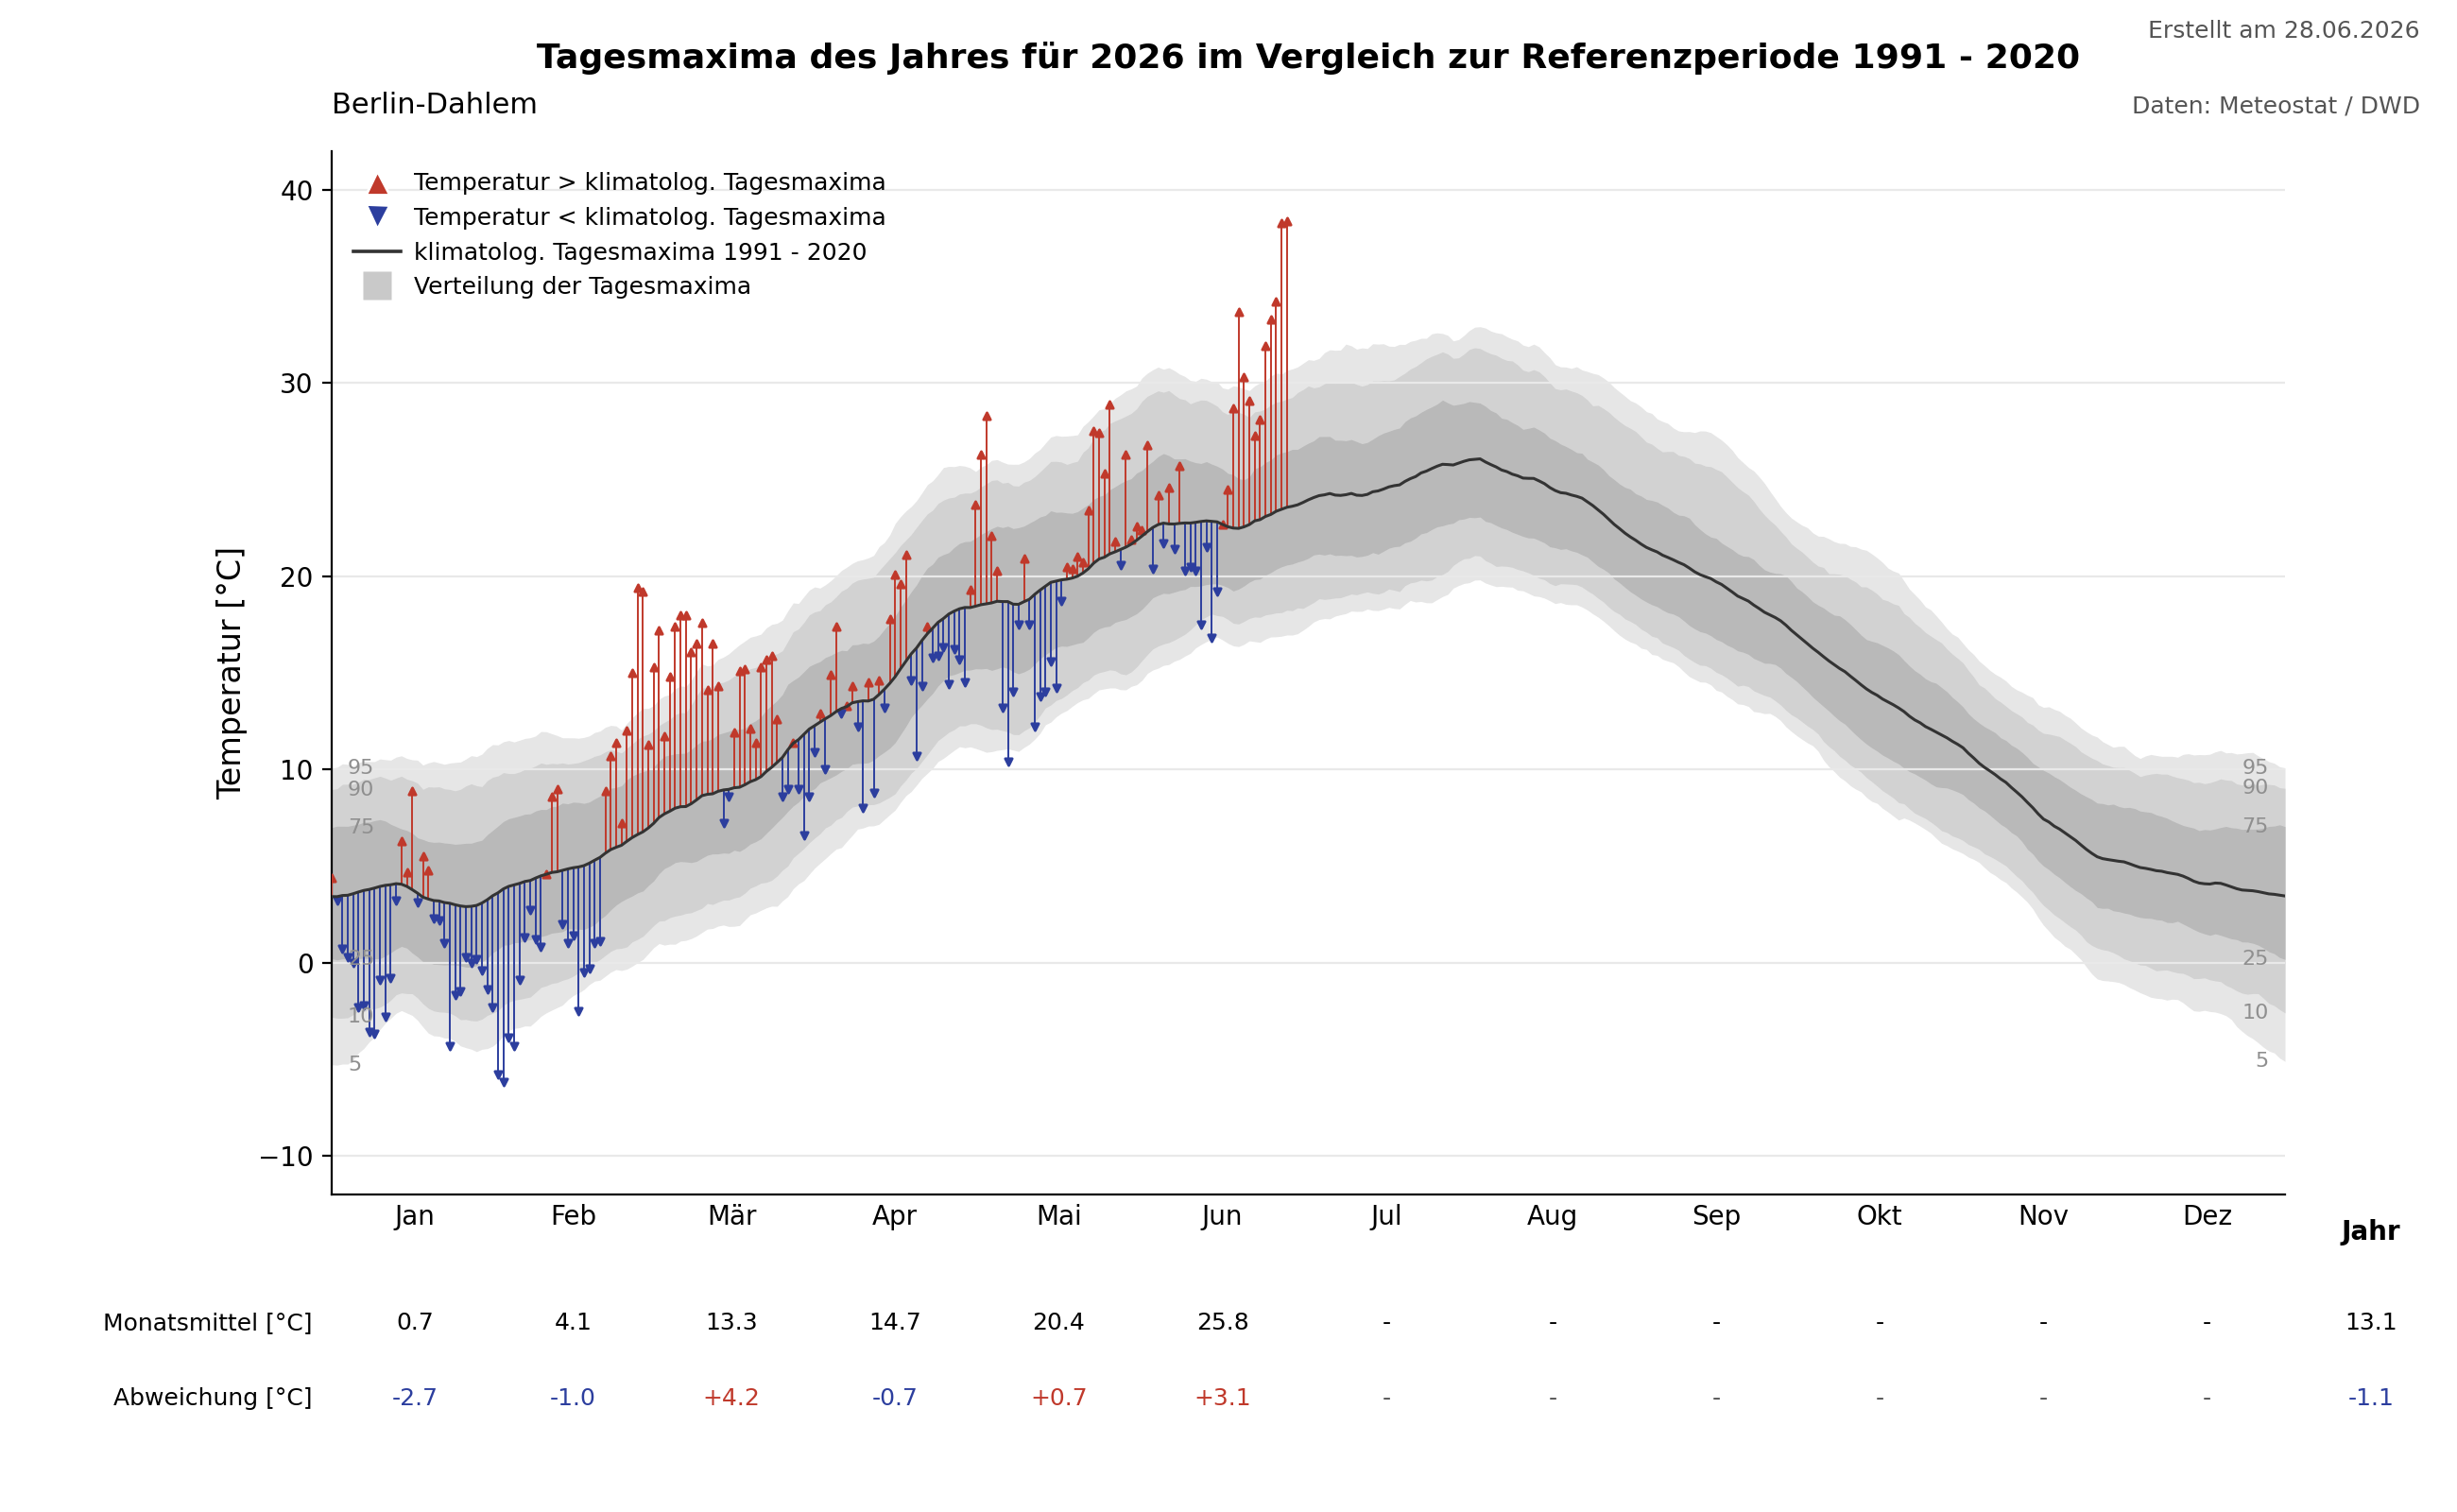
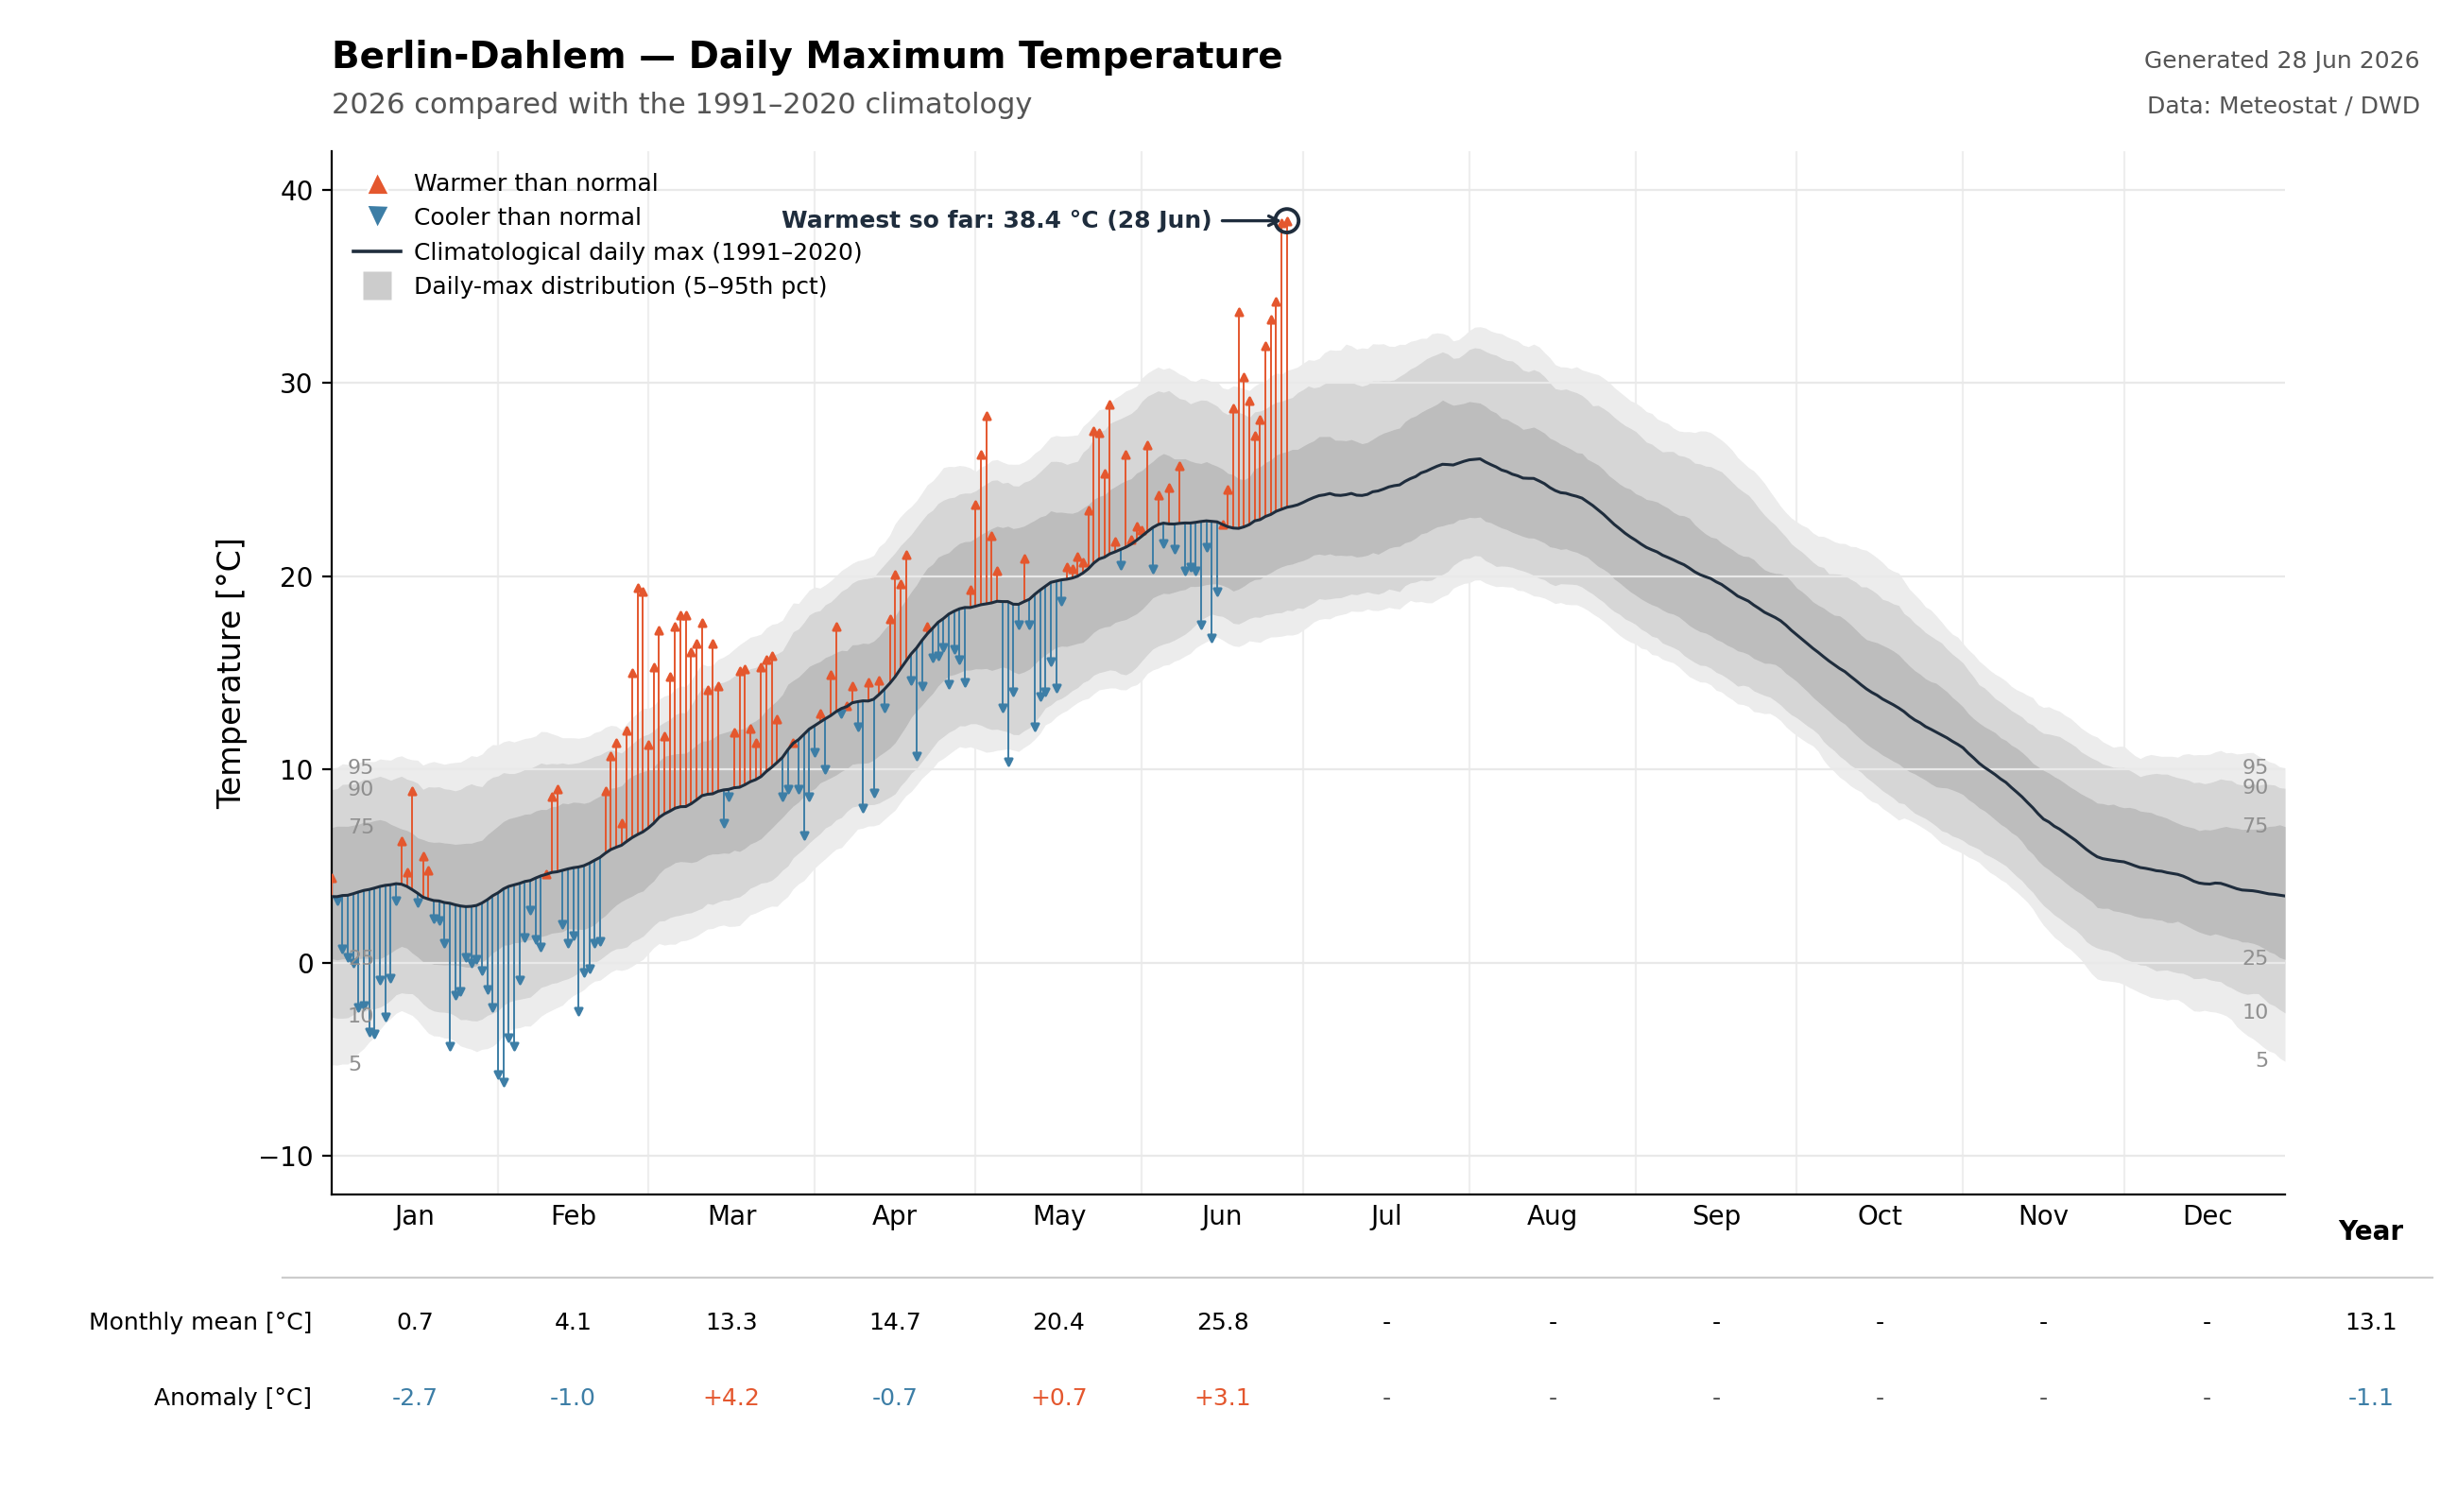
Restyle yearly-cycle chart: English labels, distinct format
Translate all chart text to English and give it its own visual identity rather
than mirroring the original German reference layout:

- English title/subtitle (left-aligned), legend, axis, credits and the
  Monthly mean / Anomaly / Year table; English month abbreviations.
- Warm/cool divergent palette (orange / steel blue) replacing crimson/navy.
- Faint vertical month separators and an underlined table header.
- Annotate the warmest day of the year so far.
- Station label "Potsdam Secular Station"; own credit line (no third-party
  branding). Renders Potsdam and Berlin-Dahlem.

Claude-Session: https://claude.ai/code/session_01Bs2KWw18xhYywxEbmL256L

diff --git a/potsdam_yearly_cycle.py b/potsdam_yearly_cycle.py
@@ -1,17 +1,17 @@
 #!/usr/bin/env python3
 """
-Yearly-cycle climatology chart (FU-Berlin "Klimadiagramm" style).
+Annual temperature-cycle chart (English labels).
 
 For a given station and year, plots every day's maximum temperature as a
 coloured bar against the smoothed climatological daily maximum of a reference
 period (default 1991-2020):
 
-* red bar / up-triangle   -> day warmer than the climatological daily maximum
-* blue bar / down-triangle -> day colder than the climatological daily maximum
+* warm bar / up-triangle   -> day warmer than the climatological daily maximum
+* cool bar / down-triangle -> day cooler than the climatological daily maximum
 
 Behind the bars, nested grey bands show the 5/10/25/75/90/95 percentile
-distribution of the reference period, and a table underneath lists the monthly
-mean daily maximum and its anomaly vs. the reference period.
+distribution of the reference period; a table underneath lists the monthly mean
+daily maximum and its anomaly, and the warmest day so far is annotated.
 
 Targets the Meteostat 2.x functional API. See CLAUDE.md for the API caveat.
 """
@@ -36,7 +36,7 @@ meteostat.config.block_large_requests = False
 STATIONS = {
     "potsdam": {
         "id": "10379",
-        "label": "Potsdam (Säkularstation)",
+        "label": "Potsdam Secular Station",
         "point": Point(52.3833, 13.0667, 81),
     },
     "berlin-dahlem": {
@@ -58,22 +58,23 @@ JAHR_X = 0.965  # figure-x of the annual ('Jahr') table column
 Y_HEADER = 0.185  # figure-y of the month / 'Jahr' header row
 Y_MEAN, Y_ANOM = 0.125, 0.075  # figure-y of the two table value rows
 
-# FU-Berlin-like palette
-RED = "#C0392B"
-BLUE = "#2C3E9E"
-LINE_COLOR = "#333333"
+# Divergent warm/cool palette (its own look, not the classic grey-on-crimson)
+RED = "#E4572E"  # warmer than normal
+BLUE = "#3D7EA6"  # cooler than normal
+LINE_COLOR = "#1F2D3D"  # climatological mean line
+HILITE = "#1F2D3D"  # warmest-day annotation
 BAND_COLORS = {  # (low, high) percentile -> grey level, darkest = innermost
-    (25, 75): "#b9b9b9",
-    (10, 90): "#d2d2d2",
-    (5, 95): "#e6e6e6",
+    (25, 75): "#bdbdbd",
+    (10, 90): "#d6d6d6",
+    (5, 95): "#ececec",
 }
 
 # Non-leap calendar: cumulative first-day-of-month day numbers (1..365)
 _DAYS_IN_MONTH = [31, 28, 31, 30, 31, 30, 31, 31, 30, 31, 30, 31]
 MONTH_STARTS = np.concatenate([[1], 1 + np.cumsum(_DAYS_IN_MONTH)])  # len 13, ends 366
 MONTH_CENTERS = (MONTH_STARTS[:-1] + MONTH_STARTS[1:]) / 2.0
-MONTH_NAMES = ["Jan", "Feb", "Mär", "Apr", "Mai", "Jun",
-               "Jul", "Aug", "Sep", "Okt", "Nov", "Dez"]
+MONTH_NAMES = ["Jan", "Feb", "Mar", "Apr", "May", "Jun",
+               "Jul", "Aug", "Sep", "Oct", "Nov", "Dec"]
 
 
 # ---------------------------------------------------------------------------
@@ -161,10 +162,10 @@ def monthly_table(series: pd.Series, year: int, ref_start: int, ref_end: int) ->
 
     Monthly figures are like-for-like: for an in-progress month the reference is
     restricted to the same day-of-month window, so a partial month is not
-    compared against a full reference month. The annual ('Jahr') anomaly follows
-    the FU-Berlin convention and compares the year-to-date mean against the
-    *full-year* reference climatology -- so it reflects the seasonal sampling of
-    the elapsed part of the year, not a same-window anomaly.
+    compared against a full reference month. The annual ('Year') anomaly instead
+    compares the year-to-date mean against the *full-year* reference climatology,
+    so it reflects the seasonal sampling of the elapsed part of the year rather
+    than a same-window anomaly.
     """
     cur = series[series.index.year == year]
     ref = _ref_slice(series, ref_start, ref_end)
@@ -181,8 +182,8 @@ def monthly_table(series: pd.Series, year: int, ref_start: int, ref_end: int) ->
         means[m] = float(cur_m.mean())
         anomalies[m] = float(cur_m.mean() - ref_m.mean()) if not ref_m.empty else None
 
-    # 'Jahr' column: year-to-date mean vs the full-year reference climatology
-    # (FU-Berlin convention; intentionally not a same-period anomaly).
+    # 'Year' column: year-to-date mean vs the full-year reference climatology
+    # (intentionally not a same-period anomaly).
     if not cur.empty and not ref.empty:
         year_mean = float(cur.mean())
         year_anom = float(cur.mean() - ref.mean())
@@ -254,7 +255,20 @@ def make_plot(key: str, year: int | None = None) -> str:
     # Climatological mean line on top
     ax.plot(grid, clim["mean"], color=LINE_COLOR, linewidth=1.1, zorder=5)
 
-    # Percentile labels just inside both margins (as in the FU-Berlin chart)
+    # Highlight the warmest day of the year so far
+    hot_i = int(np.argmax(cur_val))
+    hot_x, hot_y, hot_d = cur_doy[hot_i], cur_val[hot_i], cur.index[hot_i]
+    ax.scatter([hot_x], [hot_y], marker="o", s=80, facecolors="none",
+               edgecolors=HILITE, linewidths=1.4, zorder=6)
+    ax.annotate(
+        f"Warmest so far: {hot_y:.1f} °C "
+        f"({hot_d.day} {MONTH_NAMES[hot_d.month - 1]})",
+        xy=(hot_x, hot_y), xytext=(hot_x - 14, hot_y),
+        fontsize=9, fontweight="bold", color=HILITE, ha="right", va="center",
+        arrowprops=dict(arrowstyle="->", lw=1.2, color=HILITE),
+    )
+
+    # Percentile labels just inside both margins
     for p in PCT_LEVELS:
         ax.text(4, clim[p][0], str(p), color="#8f8f8f", fontsize=8,
                 ha="left", va="center", zorder=6)
@@ -272,33 +286,37 @@ def make_plot(key: str, year: int | None = None) -> str:
     ax.set_xticklabels(MONTH_NAMES, fontsize=10)
     ax.tick_params(axis="x", length=0)
     ax.set_yticks(np.arange(-10, int(np.floor(y_hi)) + 1, 10))
-    ax.set_ylabel("Temperatur [°C]", fontsize=12)
+    ax.set_ylabel("Temperature [°C]", fontsize=12)
     ax.yaxis.grid(True, color="#e9e9e9", linewidth=0.8, zorder=0)
+    # Faint vertical month separators (a distinct touch)
+    for x0 in MONTH_STARTS[1:-1]:
+        ax.axvline(x0, color="#eeeeee", linewidth=0.8, zorder=0)
     for spine in ("top", "right"):
         ax.spines[spine].set_visible(False)
 
-    # Titles / credits
-    fig.text((PLOT_LEFT + PLOT_RIGHT) / 2, 0.955,
-             f"Tagesmaxima des Jahres für {year} im Vergleich zur "
-             f"Referenzperiode {REF_START} - {REF_END}",
-             ha="center", fontsize=13, fontweight="bold")
-    fig.text(PLOT_LEFT, 0.925, station["label"], ha="left", fontsize=11)
-    fig.text(0.985, 0.975, f"Erstellt am {today.strftime('%d.%m.%Y')}",
-             ha="right", fontsize=9, color="#555555")
-    fig.text(0.985, 0.925,
-             "Daten: Meteostat / DWD", ha="right", fontsize=9, color="#555555")
+    # Titles / credits (left-aligned title + grey subtitle)
+    fig.text(PLOT_LEFT, 0.955,
+             f"{station['label']} — Daily Maximum Temperature",
+             ha="left", fontsize=14, fontweight="bold")
+    fig.text(PLOT_LEFT, 0.925,
+             f"{year} compared with the {REF_START}–{REF_END} climatology",
+             ha="left", fontsize=11, color="#555555")
+    gen = f"Generated {today.day} {MONTH_NAMES[today.month - 1]} {today.year}"
+    fig.text(0.985, 0.955, gen, ha="right", fontsize=9, color="#555555")
+    fig.text(0.985, 0.925, "Data: Meteostat / DWD", ha="right", fontsize=9,
+             color="#555555")
 
     # Legend
     handles = [
         Line2D([0], [0], marker="^", color="w", markerfacecolor=RED,
-               markersize=9, label="Temperatur > klimatolog. Tagesmaxima"),
+               markersize=9, label="Warmer than normal"),
         Line2D([0], [0], marker="v", color="w", markerfacecolor=BLUE,
-               markersize=9, label="Temperatur < klimatolog. Tagesmaxima"),
+               markersize=9, label="Cooler than normal"),
         Line2D([0], [0], color=LINE_COLOR, linewidth=1.3,
-               label=f"klimatolog. Tagesmaxima {REF_START} - {REF_END}"),
-        Line2D([0], [0], marker="s", color="w", markerfacecolor="#c9c9c9",
+               label=f"Climatological daily max ({REF_START}–{REF_END})"),
+        Line2D([0], [0], marker="s", color="w", markerfacecolor="#cccccc",
                markeredgecolor="none", markersize=11,
-               label="Verteilung der Tagesmaxima"),
+               label="Daily-max distribution (5–95th pct)"),
     ]
     ax.legend(handles=handles, loc="upper left", fontsize=9, frameon=False,
               handletextpad=0.6, borderpad=0.4)
@@ -313,11 +331,16 @@ def make_plot(key: str, year: int | None = None) -> str:
 
 
 def _draw_table(fig, table: dict) -> None:
-    """Render the Monatsmittel / Abweichung rows beneath the axes (figure coords)."""
+    """Render the monthly-mean / anomaly rows beneath the axes (figure coords)."""
+    # Thin separator rule underlining the month / 'Year' header
+    sep = Line2D([PLOT_LEFT - 0.02, 0.99], [Y_HEADER - 0.03, Y_HEADER - 0.03],
+                 color="#cccccc", linewidth=0.8, transform=fig.transFigure)
+    fig.add_artist(sep)
+
     # Row labels at the far left, right-aligned so they end before the plot box
-    fig.text(PLOT_LEFT - 0.008, Y_MEAN, "Monatsmittel [°C]", ha="right",
+    fig.text(PLOT_LEFT - 0.008, Y_MEAN, "Monthly mean [°C]", ha="right",
              va="center", fontsize=9)
-    fig.text(PLOT_LEFT - 0.008, Y_ANOM, "Abweichung [°C]", ha="right",
+    fig.text(PLOT_LEFT - 0.008, Y_ANOM, "Anomaly [°C]", ha="right",
              va="center", fontsize=9)
 
     def _cell(x, mean, anom):
@@ -331,8 +354,8 @@ def _draw_table(fig, table: dict) -> None:
         _cell(_fig_x(MONTH_CENTERS[m - 1]), table["means"][m],
               table["anomalies"][m])
 
-    # 'Jahr' column header (aligned with the month names) + its values
-    fig.text(JAHR_X, Y_HEADER, "Jahr", ha="center", va="center", fontsize=10,
+    # 'Year' column header (aligned with the month names) + its values
+    fig.text(JAHR_X, Y_HEADER, "Year", ha="center", va="center", fontsize=10,
              fontweight="bold")
     _cell(JAHR_X, table["year_mean"], table["year_anom"])
 

diff --git a/CLAUDE.md b/CLAUDE.md
@@ -81,7 +81,7 @@ The consistent pipeline across the codebase is **fetcher → analyzer → plotte
 
 Grouped by topic — each writes PNGs into `plots/` unless noted:
 
-- **Potsdam/Germany centennial**: `hottest_temperature_plot.py`, `potsdam_yearly_cycle.py` (FU-Berlin-style daily-max climatology chart with percentile bands + monthly anomaly table; migrated to Meteostat 2.x), `potsdam_extreme_values.py`, `real_precipitation_plot.py`, `real_precipitation_plot_dwd.py`, `update_potsdam_plot.py`, `germany_centennial_*.py`.
+- **Potsdam/Germany centennial**: `hottest_temperature_plot.py`, `potsdam_yearly_cycle.py` (annual daily-max temperature-cycle chart: percentile bands + daily warm/cool bars + monthly anomaly table, English labels; Meteostat 2.x; renders Potsdam + Berlin-Dahlem), `potsdam_extreme_values.py`, `real_precipitation_plot.py`, `real_precipitation_plot_dwd.py`, `update_potsdam_plot.py`, `germany_centennial_*.py`.
 - **Berlin**: `berlin_autumn_2024_infographic.py`, `berlin_autumn_decadal_analysis.py` (also emit Bluesky captions into `plots/`).
 - **Texas**: `texas_flash_flood_cumulative_improved.py`.
 - **Iran**: `iran_megadrought_analysis.py` (canonical, → `results/iran_megadrought_analysis/`), `iran_drought_analysis.py`, `iran_hydrological_drought_analysis.py`, `iran_simple_precipitation_plot.py`.